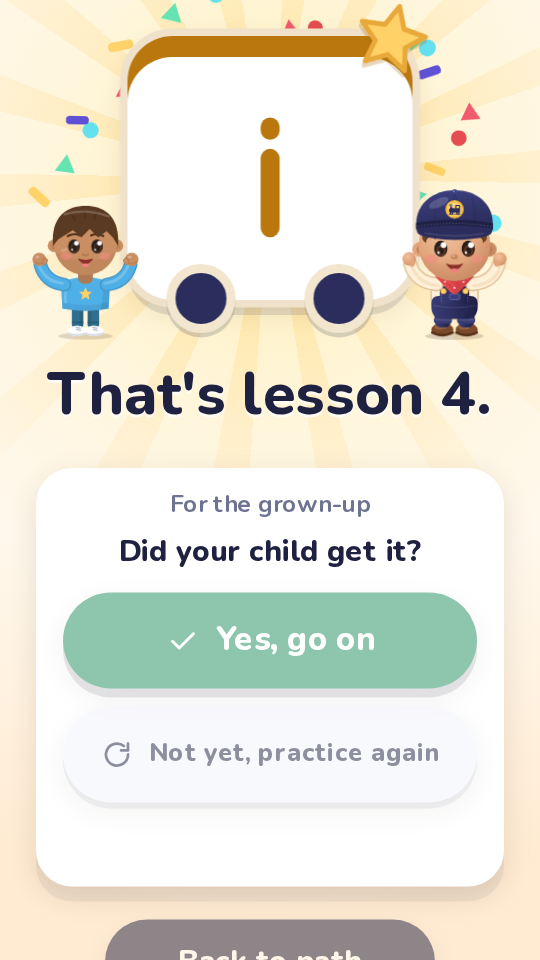
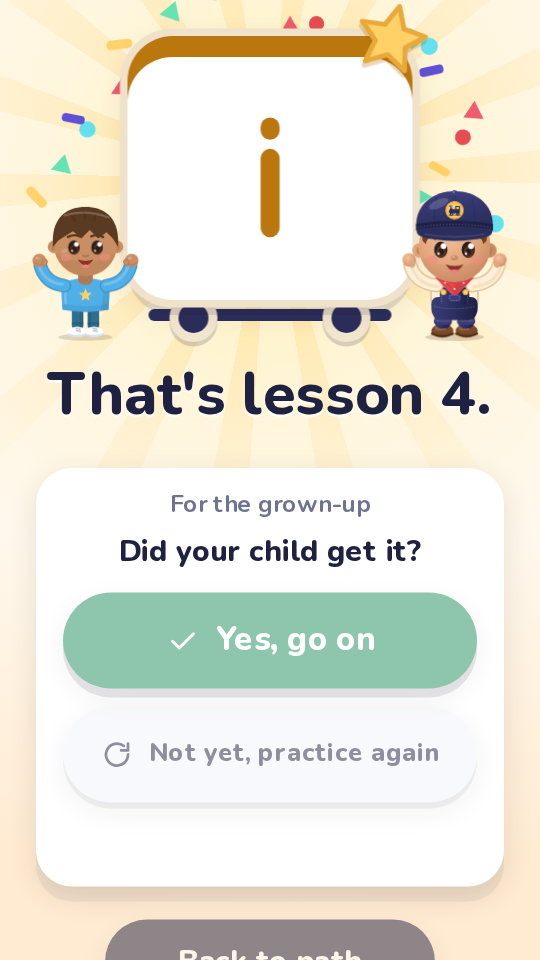
Polish B fixes: roof bunting, smaller ducks and a visible pond, finish wagon wheels under the card
Claude-Session: https://claude.ai/code/session_016cKvBQBv9Ceas6c2YjYcfF

diff --git a/js/train/starter.js b/js/train/starter.js
@@ -1,7 +1,7 @@
-// Starter Station's little extras (world 1 only; theme.details === 'starter', js/train/themes.js): bunting strung between the
-// station roofs, lamp posts at the platforms, a duck pond with two ducks and a lily pad, a bench and a mailbox at the first
+// Starter Station's little extras (world 1 only; theme.details === 'starter', js/train/themes.js): a short swag of bunting on each
+// station roof, lamp posts at the platforms, a duck pond with two ducks and a lily pad, a bench and a mailbox at the first
 // station, and two raised flower beds near the start. Everything still is baked into ONE vertex-coloured mesh plus one water
-// mesh, so it costs 2 draw calls (and 1 more in the shadow pass). Nothing moves and nothing is drawn unless something else asks
+// mesh, so it costs 2 draw calls in all. Nothing moves and nothing is drawn unless something else asks
 // for a frame. The pieces keep clear of every station sign (the signs stand at local x -3.05, z +1.25 on the platform side).
 import { THREE, PAL, rng } from './world.js';
 
@@ -58,21 +58,19 @@ export function buildStarterDetails({ bag, line, stops, kinds = [], group }) {
   const frames = stops.slice(0, n).map(frameAt);
   const cyP = (f, x, y, z, rt, rb, h, color, seg) => B.add(cyl(rt, rb, seg), { frame: f, p: [x, y, z], s: [1, h, 1], color });
 
-  // ---- bunting between two neighbouring station roofs (lesson stations only: a depot has no roof to tie it to) ----
-  for (let i = 0; i + 1 < n; i++) {
-    if (kinds[i] !== 'lesson' || kinds[i + 1] !== 'lesson') continue;
-    const A = worldOf(frames[i], -1.2, 1.97, 1.58), Z = worldOf(frames[i + 1], -1.2, 1.97, -1.58);
-    const count = 9, sag = 0.4, up = new THREE.Vector3(0, 1, 0);
+  // ---- a short swag of pennants on the front eave of each lesson station's roof (the end toward the camera; the far end would hide behind the roof) ----
+  // The string runs across the roof's end, so the camera, which looks along the line, sees it face-on, tied to the roof at both ends.
+  for (let i = 0; i < n; i++) {
+    if (kinds[i] !== 'lesson') continue;
+    const f = frames[i], A = worldOf(f, -1.1, 2.04, -1.62), Z = worldOf(f, -2.8, 1.87, -1.62), count = 6, sag = 0.3;
     const at = (t) => new THREE.Vector3().lerpVectors(A, Z, t).setY(A.y + (Z.y - A.y) * t - Math.sin(Math.PI * t) * sag);
-    const dir = new THREE.Vector3().subVectors(Z, A).setY(0).normalize(), side = new THREE.Vector3().crossVectors(dir, up);
-    // the string: a thin flat ribbon in twelve pieces
-    for (let k = 0; k < 12; k++) {
-      const a = at(k / 12), b = at((k + 1) / 12), w = side.clone().multiplyScalar(0.035);
+    const side = new THREE.Vector3().subVectors(Z, A).setY(0).normalize();
+    for (let k = 0; k < 10; k++) { // the string: a thin ribbon
+      const a = at(k / 10), b = at((k + 1) / 10), w = new THREE.Vector3(0, 0.025, 0);
       B.tri(a.clone().add(w), b.clone().add(w), b.clone().sub(w), '#7A5C3E'); B.tri(a.clone().add(w), b.clone().sub(w), a.clone().sub(w), '#7A5C3E');
     }
     for (let k = 0; k < count; k++) {
-      // each pennant hangs face-on to the camera (the camera looks along the line, so a flag lying along the string would be edge-on)
-      const c = at((k + 0.5) / count), half = side.clone().multiplyScalar(0.27), apex = c.clone().add(new THREE.Vector3(0, -0.62, 0));
+      const c = at((k + 0.5) / count), half = side.clone().multiplyScalar(0.15), apex = c.clone().add(new THREE.Vector3(0, -0.42, 0));
       B.tri(c.clone().sub(half), apex, c.clone().add(half), FLAG_COLS[(k + i) % FLAG_COLS.length]);
     }
   }
@@ -125,36 +123,31 @@ export function buildStarterDetails({ bag, line, stops, kinds = [], group }) {
     { const w = worldOf(frameAt(line.stop(0) - 1.0), 2.9, 0, 0); clear.push({ x: w.x, z: w.z, r: 1.7 }); }
   }
 
-  // ---- the duck pond, right of the line (the side the platforms are on, which the phone frames best) between the first two stations: water, a stony rim, a lily pad, two ducks ----
-  const pondS = n > 1 ? line.stop(0) + 6.1 : line.stop(0) + 4.5, pf = frameAt(pondS), PX = -4.0, RX = 1.15, RZ = 0.9;
-  B.add(cyl(1, 1, 36), { frame: pf, p: [PX, 0.025, 0], s: [RX + 0.34, 0.05, RZ + 0.3], color: '#D9C79B' });
-  for (let k = 0; k < 11; k++) {
-    const a = (k / 11) * TAU + 0.2, rs = 0.12 + R() * 0.06;
-    B.add(sph('stone', 8, 6), { frame: pf, p: [PX + Math.cos(a) * (RX + 0.3), 0.07, Math.sin(a) * (RZ + 0.27)], s: [rs * 1.5, rs, rs * 1.2], r: [0, a, 0], color: k % 2 ? '#B8B2A6' : '#CFC9BD' });
+  // ---- the duck pond: open grass on the far side of the track (left), just before the river, with a stony rim, cattails, a lily pad and two small ducks ----
+  const pondS = n > 2 ? line.stop(2) + 0.2 : line.stop(0) + 4.5, pf = frameAt(pondS), PX = 3.0, RX = 1.05, RZ = 1.55;
+  B.add(cyl(1, 1, 36), { frame: pf, p: [PX, 0.025, 0], s: [RX + 0.32, 0.05, RZ + 0.3], color: '#D9C79B' });
+  for (let k = 0; k < 13; k++) {
+    const a = (k / 13) * TAU + 0.2, rs = 0.12 + R() * 0.06;
+    B.add(sph('stone', 8, 6), { frame: pf, p: [PX + Math.cos(a) * (RX + 0.28), 0.07, Math.sin(a) * (RZ + 0.26)], s: [rs * 1.5, rs, rs * 1.2], r: [0, a, 0], color: k % 2 ? '#B8B2A6' : '#CFC9BD' });
   }
-  // cattails at the far edge
-  for (const [dx, dz, h] of [[-1.5, -0.55, 0.95], [-1.62, -0.38, 0.78], [-1.4, -0.7, 0.7]]) {
-    B.add(cyl(0.022, 0.022, 5), { frame: pf, p: [PX + dx, h / 2, dz - 0.5], s: [1, h, 1], color: '#4FA35E' });
-    B.add(cyl(0.06, 0.06, 8), { frame: pf, p: [PX + dx, h + 0.1, dz - 0.5], s: [1, 0.26, 1], color: '#7A4A2B' });
+  for (const [dx, dz, h] of [[1.15, 0.9, 0.95], [1.28, 1.06, 0.78], [1.1, 1.12, 0.7]]) { // cattails at the far corner
+    B.add(cyl(0.022, 0.022, 5), { frame: pf, p: [PX + dx, h / 2, dz], s: [1, h, 1], color: '#4FA35E' });
+    B.add(cyl(0.06, 0.06, 8), { frame: pf, p: [PX + dx, h + 0.1, dz], s: [1, 0.26, 1], color: '#7A4A2B' });
   }
-  const duck = (x, z, ry, k) => {
-    const o = { frame: pf, p: [PX + x, 0, z], r: [0, ry, 0] };
-    const at = (dx, dy, dz) => [PX + x + Math.cos(ry) * dx + Math.sin(ry) * dz, dy, z - Math.sin(ry) * dx + Math.cos(ry) * dz];
+  const duck = (x, z, ry, k) => { // k scales the whole duck (body about 0.9 k long)
+    const at = (dx, dy, dz) => [PX + x + Math.cos(ry) * dx * k + Math.sin(ry) * dz * k, dy * k, z - Math.sin(ry) * dx * k + Math.cos(ry) * dz * k];
     B.add(sph('duckBody', 14, 10), { frame: pf, p: at(0, 0.2, 0), r: [0, ry, 0], s: [0.33 * k, 0.24 * k, 0.46 * k], color: '#FFD84D' });
-    B.add(sph('duckTail', 8, 6), { frame: pf, p: at(0, 0.32, -0.4 * k), r: [0.5, ry, 0], s: [0.12 * k, 0.1 * k, 0.17 * k], color: '#FFD84D' });
-    B.add(sph('duckWing', 10, 8), { frame: pf, p: at(0.27 * k, 0.26, -0.03 * k), r: [0, ry, 0.1], s: [0.06 * k, 0.15 * k, 0.28 * k], color: '#F2B92E' });
-    B.add(sph('duckWing', 10, 8), { frame: pf, p: at(-0.27 * k, 0.26, -0.03 * k), r: [0, ry, -0.1], s: [0.06 * k, 0.15 * k, 0.28 * k], color: '#F2B92E' });
-    B.add(sph('duckHead', 12, 10), { frame: pf, p: at(0, 0.53 * k, 0.33 * k), s: [0.21 * k, 0.21 * k, 0.21 * k], color: '#FFD84D' });
-    B.add(box(0.2 * k, 0.07 * k, 0.17 * k, 0.03), { frame: pf, p: at(0, 0.5 * k, 0.55 * k), r: [0, ry, 0], color: '#FF8A2B' });
-    for (const sx of [-1, 1]) B.add(sph('duckEye', 6, 4), { frame: pf, p: at(sx * 0.1 * k, 0.6 * k, 0.45 * k), s: [0.035 * k, 0.035 * k, 0.035 * k], color: PAL.ink });
-    return o;
+    B.add(sph('duckTail', 8, 6), { frame: pf, p: at(0, 0.32, -0.4), r: [0.5, ry, 0], s: [0.12 * k, 0.1 * k, 0.17 * k], color: '#FFD84D' });
+    for (const sx of [-1, 1]) B.add(sph('duckWing', 10, 8), { frame: pf, p: at(sx * 0.27, 0.26, -0.03), r: [0, ry, sx * 0.1], s: [0.06 * k, 0.15 * k, 0.28 * k], color: '#F2B92E' });
+    B.add(sph('duckHead', 12, 10), { frame: pf, p: at(0, 0.53, 0.33), s: [0.21 * k, 0.21 * k, 0.21 * k], color: '#FFD84D' });
+    B.add(box(0.2 * k, 0.07 * k, 0.17 * k, 0.03 * k), { frame: pf, p: at(0, 0.5, 0.55), r: [0, ry, 0], color: '#FF8A2B' });
+    for (const sx of [-1, 1]) B.add(sph('duckEye', 6, 4), { frame: pf, p: at(sx * 0.1, 0.6, 0.45), s: [0.035 * k, 0.035 * k, 0.035 * k], color: PAL.ink });
   };
-  duck(-0.45, 0.1, 0.9, 1.15);
-  duck(0.55, -0.3, -2.3, 0.85);
-  // a lily pad with a pink bloom
-  B.add(cyl(1, 1, 18), { frame: pf, p: [PX + 0.75, 0.065, 0.55], s: [0.34, 0.025, 0.3], color: '#3FAE62' });
-  B.add(sph('lily', 8, 6), { frame: pf, p: [PX + 0.75, 0.13, 0.55], s: [0.1, 0.07, 0.1], color: '#FF8AB5' });
-  { const w = worldOf(pf, PX, 0, 0); clear.push({ x: w.x, z: w.z, r: 2.3 }); }
+  duck(-0.2, 0.45, 0.8, 0.62);
+  duck(0.25, -0.5, -2.4, 0.48);
+  B.add(cyl(1, 1, 18), { frame: pf, p: [PX + 0.38, 0.065, -0.05], s: [0.3, 0.025, 0.27], color: '#3FAE62' }); // a lily pad with a pink bloom
+  B.add(sph('lily', 8, 6), { frame: pf, p: [PX + 0.38, 0.13, -0.05], s: [0.09, 0.06, 0.09], color: '#FF8AB5' });
+  { const w = worldOf(pf, PX, 0, 0); clear.push({ x: w.x, z: w.z, r: 2.4 }); }
 
   group.add(B.mesh(bag));
   // the water: one smooth, shiny ellipse over the pond's sand

diff --git a/css/app.css b/css/app.css
@@ -1835,8 +1835,9 @@ button.hw-tile:active { transform: translateY(3px) scale(.97); }
   background: repeating-conic-gradient(from 4deg, rgba(255,198,76,.26) 0 7deg, rgba(255,198,76,0) 7deg 20deg); -webkit-mask-image: radial-gradient(circle, #000 12%, transparent 62%); mask-image: radial-gradient(circle, #000 12%, transparent 62%); }
 .finish-wagon { position: absolute; inset: 0 0 14px; border-radius: 30px; background: #fff; display: grid; place-items: center; z-index: 1;
   box-shadow: inset 0 14px 0 var(--accent), 0 0 0 5px color-mix(in srgb, var(--accent) 22%, #fff), 0 10px 0 rgba(30,33,64,.12), var(--shadow); }
-.finish-wagon::before, .finish-wagon::after { content: ''; position: absolute; bottom: -22px; width: 34px; height: 34px; border-radius: 50%; background: #2B2D5C; border: 6px solid #F3E6CF; box-shadow: 0 3px 0 rgba(30,33,64,.18); }
-.finish-wagon::before { left: 26px; } .finish-wagon::after { right: 26px; }
+.finish-chassis { position: absolute; left: 14px; right: 14px; bottom: 0; height: 8px; border-radius: 4px; background: #2B2D5C; z-index: 0; } /* the wagon's chassis bar; the wheels hang mostly below the card */
+.fw-wheel { position: absolute; top: -10px; width: 32px; height: 32px; border-radius: 50%; background: #2B2D5C; border: 6px solid #F3E6CF; box-shadow: 0 3px 0 rgba(30,33,64,.18); }
+.fw-wheel:first-child { left: 14px; } .fw-wheel:last-child { right: 14px; }
 .finish .finish-glyph .glyph { width: 58%; margin-top: 14px; }
 .finish .finish-glyph .sack-art, .finish .finish-glyph .crate-art, .finish .finish-glyph .book-art, .finish .finish-glyph .gauge-art { width: 56%; margin-top: 14px; }
 .finish .finish-ring { border-radius: 34px; inset: -8px -8px 6px; z-index: 0; }
@@ -1852,7 +1853,7 @@ button.hw-tile:active { transform: translateY(3px) scale(.97); }
   .confetti i { animation: confetti-burst 1.5s cubic-bezier(.15,.7,.25,1) both; animation-delay: calc(480ms + var(--d)); }
   .finish-star { animation: star-pop 640ms var(--ease-spring) 380ms both; }
   .finish-pip, .finish-kid { animation: cheer-hop 520ms ease-out 2 700ms; }
-  .finish-wagon::before, .finish-wagon::after { animation: wheel-spin 900ms ease-out 1 both; }
+  .fw-wheel { animation: wheel-spin 900ms ease-out 1 both; }
 }
 @keyframes confetti-burst { 0% { transform: translate(0, 0) rotate(0) scale(.3); opacity: 0; } 12% { opacity: 1; } 100% { transform: translate(calc(var(--tx) * var(--sc)), calc(var(--ty) * var(--sc))) rotate(calc(var(--r) + 300deg)) scale(1); opacity: .95; } }
 @keyframes star-pop { 0% { transform: rotate(-30deg) scale(0); opacity: 0; } 100% { transform: rotate(14deg) scale(1); opacity: 1; } }
@@ -1863,7 +1864,7 @@ button.hw-tile:active { transform: translateY(3px) scale(.97); }
 @media (orientation: landscape) and (max-height: 520px) {
   .finish .finish-glyph { --sc: .6; }
   .finish-wagon { border-radius: 22px; inset: 0 0 10px; box-shadow: inset 0 10px 0 var(--accent), 0 0 0 4px color-mix(in srgb, var(--accent) 22%, #fff), 0 8px 0 rgba(30,33,64,.12), var(--shadow); }
-  .finish-wagon::before, .finish-wagon::after { width: 24px; height: 24px; bottom: -16px; border-width: 4px; } .finish-wagon::before { left: 16px; } .finish-wagon::after { right: 16px; }
+  .finish-chassis { height: 6px; left: 10px; right: 10px; } .fw-wheel { width: 24px; height: 24px; top: -8px; border-width: 4px; } .fw-wheel:first-child { left: 8px; } .fw-wheel:last-child { right: 8px; }
   .finish-star { width: 40px; height: 40px; right: -10px; top: -18px; }
   .finish .finish-glyph::before { width: 420px; height: 420px; margin: -210px 0 0 -210px; }
 }

diff --git a/js/screens/finish.js b/js/screens/finish.js
@@ -44,7 +44,7 @@ function finishView({ speech, router, character, heading, badge, accent, armedLa
   const back = h('button', { class: 'btn secondary back-path', type: 'button', disabled: true, onclick: () => router.go('/home') }, 'Back to path');
   const ring = h('span', { class: 'finish-ring', style: { '--accent': accent } });
   const root = h('div', { class: 'finish' },
-    h('div', { class: 'finish-glyph', style: { '--accent': accent } }, confetti(), ring, h('span', { class: 'finish-wagon' }, badge), goldStar(), h('span', { class: 'finish-pip' }, pipSvg({ pose: 'cheer' })), h('span', { class: 'finish-kid', 'aria-hidden': 'true' }, kidSvg({ ...character, pose: 'cheer' }))),
+    h('div', { class: 'finish-glyph', style: { '--accent': accent } }, confetti(), ring, h('span', { class: 'finish-chassis', 'aria-hidden': 'true' }, h('i', { class: 'fw-wheel' }), h('i', { class: 'fw-wheel' })), h('span', { class: 'finish-wagon' }, badge), goldStar(), h('span', { class: 'finish-pip' }, pipSvg({ pose: 'cheer' })), h('span', { class: 'finish-kid', 'aria-hidden': 'true' }, kidSvg({ ...character, pose: 'cheer' }))),
     h('h1', {}, heading),
     h('section', { class: 'finish-card' }, h('p', { class: 'finish-for' }, 'For the grown-up'), h('p', { class: 'finish-q' }, 'Did your child get it?'), h('div', { class: 'finish-choices' }, gotIt, again), note),
     back);

diff --git a/README.md b/README.md
@@ -421,4 +421,4 @@ The design is in `docs/TRAIN-WORLD.md`; screenshots at four phone sizes are in `
 - v1.9.22: journey board: the board that used to sit only under Grownups > Previews now has three permanent homes (owner's decision A + B + C). A) A map button (js/components/map-button.js, a folded-map icon, 52 px, aria-label "Journey map") replaces the star board at the top left of the 3D and the 2D Home, right of the "Grownups · hold" pill. It opens the board (js/components/journey-board.js) as a full-screen sheet over the Home; there is no route change: opening adds a history entry with the same address (js/components/back-sheet.js), so the browser's and Android's Back close it, as do the corner button and "All aboard!" (the native Back handler in js/router.js asks the sheet stack first, still one listener). The board shows the eleven worlds as stations on a little railway (finished ones ticked in gold, later ones dashed with a lock, the current one ringed with a small train and a "You are here" label, and when everything built is finished, a line saying more worlds are coming), the current world's unit track as before, and the gold level stars the star board used to show ("Gold stars", lit or outlined, "1 of 2"), so nothing the child earned disappears. The level party now pulses the map button (one CSS transform animation, none under reduced motion) and its star count (`data-stars`, and a small gold star with the number on the button); the star board component is only used inside the board. The region preview (#/world/<id>) shows nothing in its place. B) The world-crossing card shows a compact board (`journeyMini`): a station for each world, the two involved enlarged, and the train rolling from the finished world to the next with one CSS transform transition (1.7 s, started 450 ms after the card shows; reduced motion: it simply stands at the next world); the card's timing and flow are unchanged. C) Grownups has a "Progress" fold above Lessons (js/components/progress-card.js): the railway with its stars and, for each world that has lessons, "N of M lessons done", the current unit with its sounds, the level star earned there and the date of the last lesson finished (`worldSummary` in js/worlds.js); worlds with no lessons are one quiet line. The Previews fold lost its journey board button (six previews left; the route /preview/board stays for the tests). No rAF loop was added: the Home idle frame budget is unchanged. test/journey.mjs covers all of it and sits before smoke in `npm test`; tests that asserted the star board (test/levels.mjs, the Previews count in test/worlds.mjs) were updated. Screenshots: docs/screenshots/journey/.
 - v1.9.23: owner fixes: (1) "Did you know?" tips never time out: `tipCard` has no timer and closes only with "Got it" or the X (tapping the text does nothing); a tip on the world-crossing card replaces "Tap to go" with a "Let's go!" button and the card waits for it (a card with no tip still moves on after about 3 s). (2) Heart word hint now says "the letter e" (the owner read "for the e" as "thee"), and every "the e" in heart.js became "the letter e". (3) Spell it (heart word and the f lesson's Build it, they share `.bi-*`) puts the tile jumble on its own tinted tray with a larger gap under the answer row (at least 24 px at 390x844). (4) Find it's first chip is "Read the sentence together, then tap the heart word" (wraps to two lines), with the grown-up script and speech matching. (5) One shared read-it script, `READ_HELP` in js/scripts.js ("Ask your child to read it. If they know some of the letters, sound it out together. Still stuck? Read it yourself, then have your child say it after you."), used in the heart word steps and data/proto-lesson-f.json (quick-review words, Read It, story lines); child chips say "Read it together". The placement check is untouched (it is an assessment). The lesson generator writes no read-a-word wording, so curriculum.json is unchanged. (6) Drawing/tracing: the script says to draw it first, that it is fine if it does not look right yet and that the child can still move on; Next was never tied to the drawing, and the f lesson's trace step no longer auto-advances after two strokes (a grown-up drawing first would have been whisked away).
 - v1.9.24: domain move (handoff live): the app moves from choochootraining.com to app.choochootraining.com. `js/config.js` has `SITE_URL`, `APP_ORIGIN`, `OLD_HOSTS` and `HANDOFF_LIVE = false`. `js/handoff.js` runs first in boot: on an old host (and only when HANDOFF_LIVE) it redirects with `location.replace` to `APP_ORIGIN/<query>#handoff=<base64url utf8 JSON of reading.v1>&route=<encoded old route>` (fragment only, never the query, so it cannot reach server logs; no saved state: plain redirect keeping the hash; a reset-link hash with access_token, type=recovery or error is forwarded unchanged). On any other host a `#handoff=` fragment is decoded, validated (schema 1, lessons map, at most 200 KB), adopted via `store.adopt` only when the local copy is fresh (`store.isFresh()`) or both copies carry `savedAt` and the incoming one is newer, then removed with `history.replaceState` and replaced by `#route` (default `#/home`); malformed data is ignored silently. It runs before the account gate and works with or without accounts (the usual sync rules apply after a later sign-in). `reading.auth` never travels (people sign in again). The storage read goes through `readRawProgress` in js/store.js (the seam). Localhost-only test override `window.__handoff = { host, live, appOrigin }`; covered by test/handoff.mjs. `js/handoff.js` is in the sw.js precache list (takes effect with the next CACHE_VERSION bump). The platform test allows the `app.` address. Member cookie: `js/member.js` sets `cct_member=1; Domain=.choochootraining.com; Path=/; Max-Age=31536000; Secure; SameSite=Lax` on choochootraining.com hosts only (never localhost, netlify.app or native) while the child has started (firstRunDone or a lesson result) or a grown-up is signed in, and clears it (Max-Age=0) otherwise (sign out and delete account empty the progress); the website on the main address uses it to redirect app users (test hook on localhost: `window.__memberCookie`). Steps for the owner and the marketing site: docs/DOMAIN-MOVE.md.
-- Polish B (no version change): owner's "next level" pass on the practice look. Lesson overview: the steps come first (the row is a little taller, with a soft fade on its right edge that goes at the end of the row and a peek of the next card), then a bigger Start button (72 px), then the optional Alphabet song as a small row at the very bottom (landscape: left of Start); the song's note is hidden in that row and reads "before or after the lesson". Task frame (shared, css only): the coloured card gets a dot texture, a soft light from the top left and a settled edge, all static; its content is centred vertically (auto margins, so a tall task still scrolls as before); no task behaviour changed. Finish: the letter rides on a little wagon ticket with wheels, a gold star, one confetti burst of 22 pieces that settles and stays (CSS, finite, 1.5 s; reduced motion shows the settled picture), static sun rays behind, warmer background, Pip and the child hop twice; same buttons, same two-tap logic. Starter Station (world 1 only, `js/train/starter.js`, theme `starter-station` = default look + `details: 'starter'`; W2, W3, W4 untouched): pennant strings between lesson roofs (pennants face the camera), lamp posts at every third station, a duck pond with two ducks, cattails and a lily pad, a bench and a mailbox at the first station, two raised flower beds; trees and flowers keep out of those spots. Everything still is baked into one solid mesh and one water mesh: +2 draw calls in all, shadow pass included (208 to 210 at 412x915, 191 to 193 at 915x412), about 15k triangles, nothing animated. New suite test/polish-b.mjs (in npm test); test/regions.mjs checks W1 has the details and W2 does not; round2's overview padding check changed from 96 px to 16 px on purpose.
+- Polish B (no version change): owner's "next level" pass on the practice look. Lesson overview: the steps come first (the row is a little taller, with a soft fade on its right edge that goes at the end of the row and a peek of the next card), then a bigger Start button (72 px), then the optional Alphabet song as a small row at the very bottom (landscape: left of Start); the song's note is hidden in that row and reads "before or after the lesson". Task frame (shared, css only): the coloured card gets a dot texture, a soft light from the top left and a settled edge, all static; its content is centred vertically (auto margins, so a tall task still scrolls as before); no task behaviour changed. Finish: the letter rides on a little wagon ticket whose wheels hang below it on a chassis bar, a gold star, one confetti burst of 22 pieces that settles and stays (CSS, finite, 1.5 s; reduced motion shows the settled picture), static sun rays behind, warmer background, Pip and the child hop twice; same buttons, same two-tap logic. Starter Station (world 1 only, `js/train/starter.js`, theme `starter-station` = default look + `details: 'starter'`; W2, W3, W4 untouched): a short swag of six pennants on the front eave of every lesson station's roof, lamp posts at every third station, a duck pond with two small ducks, cattails and a lily pad on open grass left of the track at station 3 (it shows whole in the first Home view), a bench and a mailbox at the first station, two raised flower beds; trees and flowers keep out of those spots. Everything still is baked into one solid mesh and one water mesh: +2 draw calls in all, shadow pass included (208 to 210 at 412x915, 191 to 193 at 915x412), about 15k triangles, nothing animated. New suite test/polish-b.mjs (in npm test); test/regions.mjs checks W1 has the details and W2 does not; round2's overview padding check changed from 96 px to 16 px on purpose.
